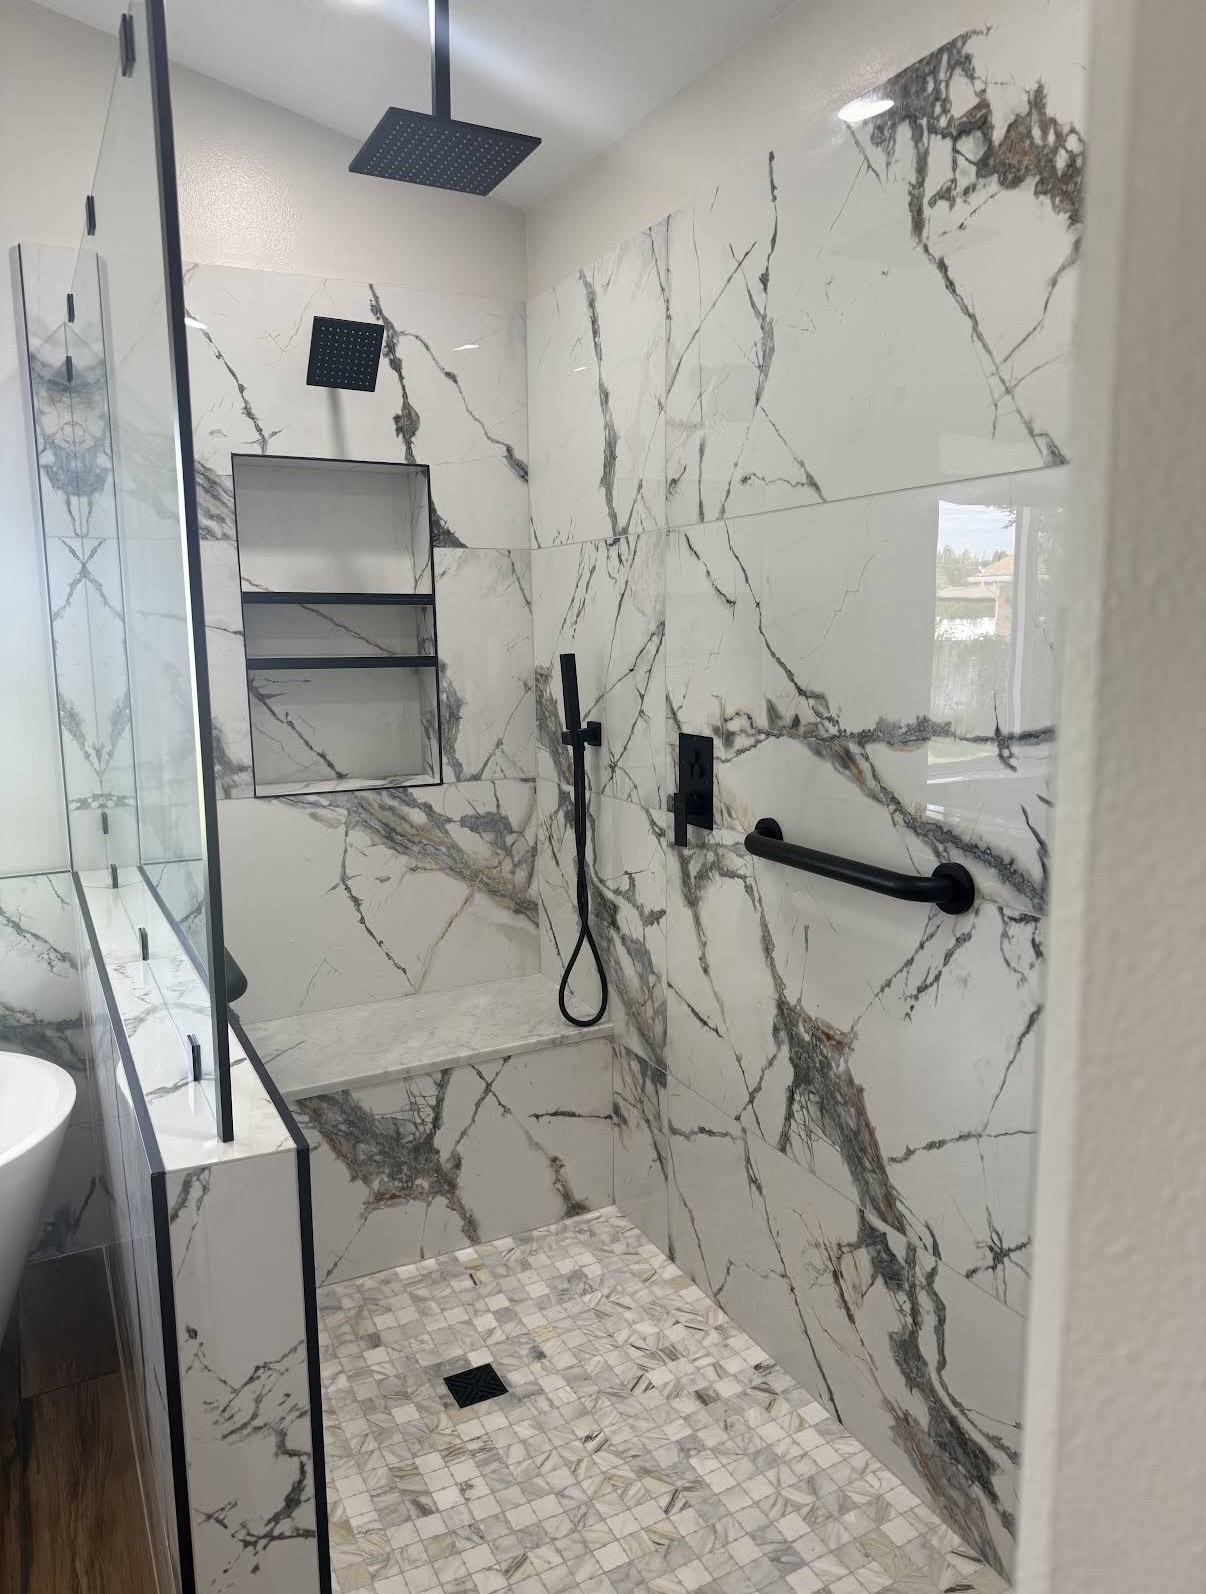
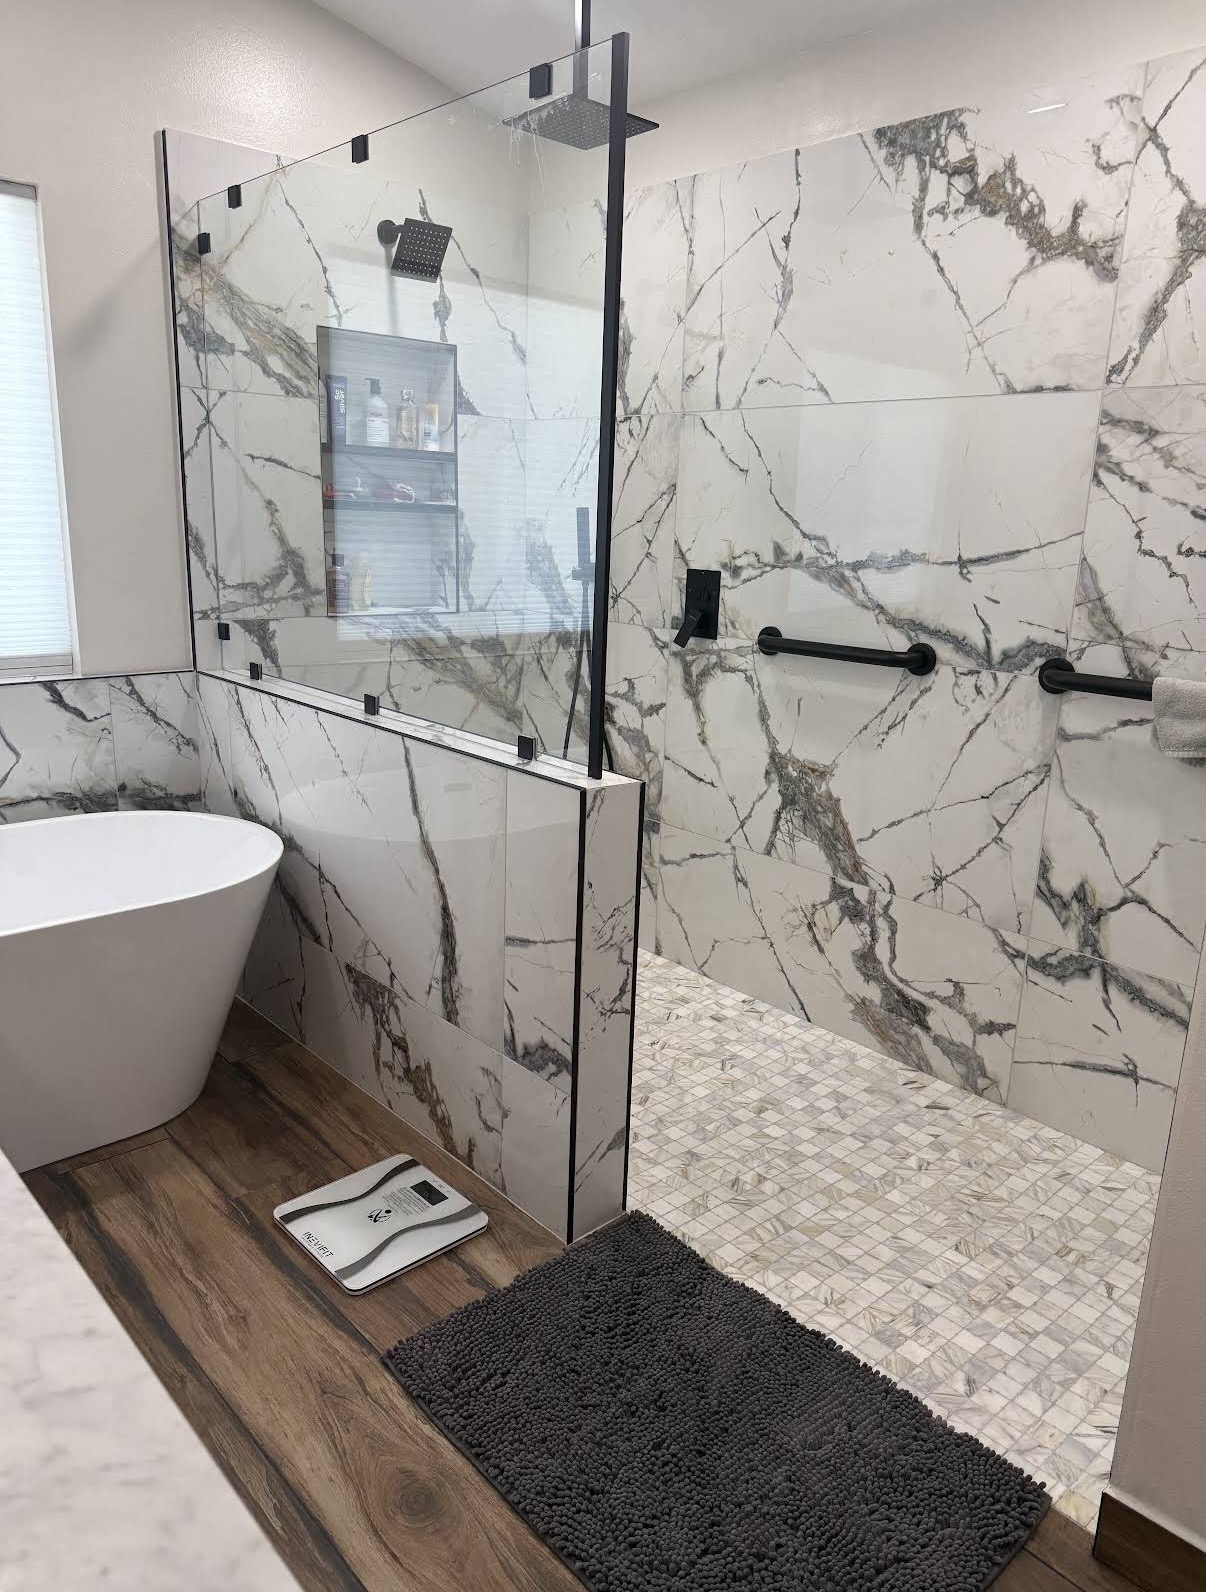
Prepare website for update

diff --git a/index.html b/index.html
@@ -138,7 +138,7 @@
         <div class="hero-stats">
           <div class="hero-stat"><span class="hero-stat-num">30+</span><span class="hero-stat-label">Projects Completed</span></div>
           <div class="hero-stat"><span class="hero-stat-num">8 yrs</span><span class="hero-stat-label">Experience</span></div>
-          <div class="hero-stat"><span class="hero-stat-num">4.8&#9733;</span><span class="hero-stat-label">Google Rating</span></div>
+          <div class="hero-stat"><span class="hero-stat-num">4.9&#9733;</span><span class="hero-stat-label">Google Rating</span></div>
         </div>
       </div>
     </section>
@@ -197,7 +197,7 @@
           </article>
 
           <article class="service-card">
-            <div class="service-img" style="background-image: url('images/concrete/patio_1.jpg');" role="img" aria-label="Concrete patio example"></div>
+            <div class="service-img" style="background-image: url('images/concrete/patio_3.jpg');" role="img" aria-label="Concrete patio example"></div>
             <div class="service-body">
               <h3>Concrete</h3>
               <p>Driveways, patios, walkways, and slabs — poured, finished, and cured right. Built to handle Utah's freeze-thaw cycles for the long haul.</p>
@@ -332,14 +332,14 @@
             <svg width="28" height="28" viewBox="0 0 24 24" fill="none" stroke="currentColor" stroke-width="1.5" aria-hidden="true"><path d="M12 2l3.09 6.26L22 9.27l-5 4.87 1.18 6.88L12 17.77l-6.18 3.25L7 14.14 2 9.27l6.91-1.01L12 2z"/></svg>
             <div>
               <strong>10+ Reviews</strong>
-              <span>4.8 Stars on Google</span>
+              <span>4.9 Stars on Google</span>
             </div>
           </div>
         </div>
         <div class="why-us-text">
           <p class="section-eyebrow">Who You're Working With</p>
-          <h2 class="section-title">The Contractor<br>You Can Actually Trust</h2>
-          <p class="section-desc">I'm [OWNER NAME], owner of CAST Home Builders. Most remodeling horror stories start the same way — a contractor who disappears, blows the budget, or hands the job to a rotating cast of subs you never meet. I'm personally involved in every estimate and every project we take on, from the first walkthrough to the final coat of paint.</p>
+          <h2 class="section-title">The Contractors<br>You Can Actually Trust</h2>
+          <p class="section-desc">CAST is a family owned business, led by Jose Torres. Most remodeling horror stories start the same way — a contractor who disappears, blows the budget, or hands the job to a rotating cast of subs you never meet. We're personally involved in every estimate and every project we take on, from the first walkthrough to the final coat of paint.</p>
 
           <ul class="why-list">
             <li>
@@ -381,7 +381,7 @@
           </ul>
 
           <p class="meet-owner-signoff">— [OWNER NAME], Owner &amp; General Contractor</p>
-          <a href="#contact" class="btn btn-secondary">Talk to Me Directly →</a>
+          <a href="#contact" class="btn btn-secondary">Talk to Us Directly →</a>
         </div>
       </div>
     </section>

diff --git a/js/main.js b/js/main.js
@@ -44,18 +44,17 @@ navMobile.querySelectorAll('a').forEach(link => {
    Not every project needs the same treatment: mix and match freely as
    you get more photos for a given project. ─────────────────────────── */
 const PROJECTS = [
-  { id: 1, category: 'bathroom', title: 'Shower Remodel', location: 'American Fork, UT',
-    type: 'single', images: ['images/gallery-2.jpg'] },
   { id: 2, category: 'kitchen', title: 'Kitchen Remodel', location: 'Saratoga Springs, UT',
     type: 'single', images: ['images/gallery-3.jpg'] },
-  { id: 3, category: 'basement', title: 'Basement Entrance', location: 'Eagle Mountain, UT',
+  { id: 3, category: 'concrete', title: 'Basement Entrance', location: 'Eagle Mountain, UT',
     type: 'single', images: ['images/gallery-1.jpg'] },
   { id: 4, category: 'flooring', title: 'LVP Flooring', location: 'Draper, UT',
     type: 'single', images: ['images/gallery-4.jpg'] },
   { id: 5, category: 'bathroom', title: 'Bathroom Remodel', location: 'Provo, UT',
     type: 'single', images: ['images/gallery-5.jpg'] },
-  { id: 6, category: 'accessibility', title: 'Accessibility Bathroom Remodel', location: 'Pleasant Grove, UT',
-    type: 'single', images: ['images/gallery-6.jpg'] },
+  { id: 6, category: 'accessibility', title: 'Accessibility Bathroom Remodel', location: 'Orem, UT',
+    type: 'single', thumb: 'images/Lisa Bathroom/lisa1.jpg',
+    images: ['images/Lisa Bathroom/lisa1.jpg', 'images/Lisa Bathroom/lisa2.jpg', 'images/Lisa Bathroom/lisa3.jpg', 'images/Lisa Bathroom/lisa4.png'] },
   { id: 7, category: 'concrete', title: 'Patio Extension', location: 'Eagle Mountain, UT',
     type: 'single', images: ['images/concrete/patio_1.jpg', 'images/concrete/patio_2.jpg', 'images/concrete/patio_3.jpg', 'images/concrete/patio_4.jpg'] },
   { id: 8, category: 'concrete', title: 'Hot Tub Concrete Slab', location: 'Heber City, UT',
@@ -101,7 +100,7 @@ function renderGallery(filter) {
   if (galleryEmpty) galleryEmpty.hidden = true;
 
   filtered.forEach(p => {
-    const thumbUrl = p.type === 'beforeafter' ? p.after : p.images[p.images.length - 1];
+    const thumbUrl = p.thumb || (p.type === 'beforeafter' ? p.after : p.images[p.images.length - 1]);
     const card = document.createElement('div');
     card.className = 'gcard';
     card.innerHTML = `

diff --git a/accessibility.html b/accessibility.html
@@ -351,6 +351,11 @@
             <blockquote>"...Absolutely amazing great quality, reasonable price..."</blockquote>
             <footer class="acc-review-author">&mdash; Tyler Klamm, Saratoga Springs UT</footer>
           </article>
+          <article class="acc-review-card">
+            <div class="acc-review-stars" aria-label="5 out of 5 stars">&#9733;&#9733;&#9733;&#9733;&#9733;</div>
+            <blockquote>"We had an excellent experience with CAST Home Builders. They did a bath remodel for us, turning our 25 year old bathroom into an ADA bathroom complete with zero entry walk in shower (with grab bars), and Jose created a beautiful, elegant design with a lot of details[...] We love our beautiful, and safe new bathroom!"</blockquote>
+            <footer class="acc-review-author">&mdash; Lisa Hughes, Orem UT</footer>
+          </article>
           <article class="acc-review-card acc-review-card--placeholder">
             <div class="acc-review-placeholder-text">
               <svg width="30" height="30" viewBox="0 0 24 24" fill="none" stroke="currentColor" stroke-width="1.5" aria-hidden="true"><path d="M21 15a2 2 0 01-2 2H7l-4 4V5a2 2 0 012-2h14a2 2 0 012 2z"/></svg>
